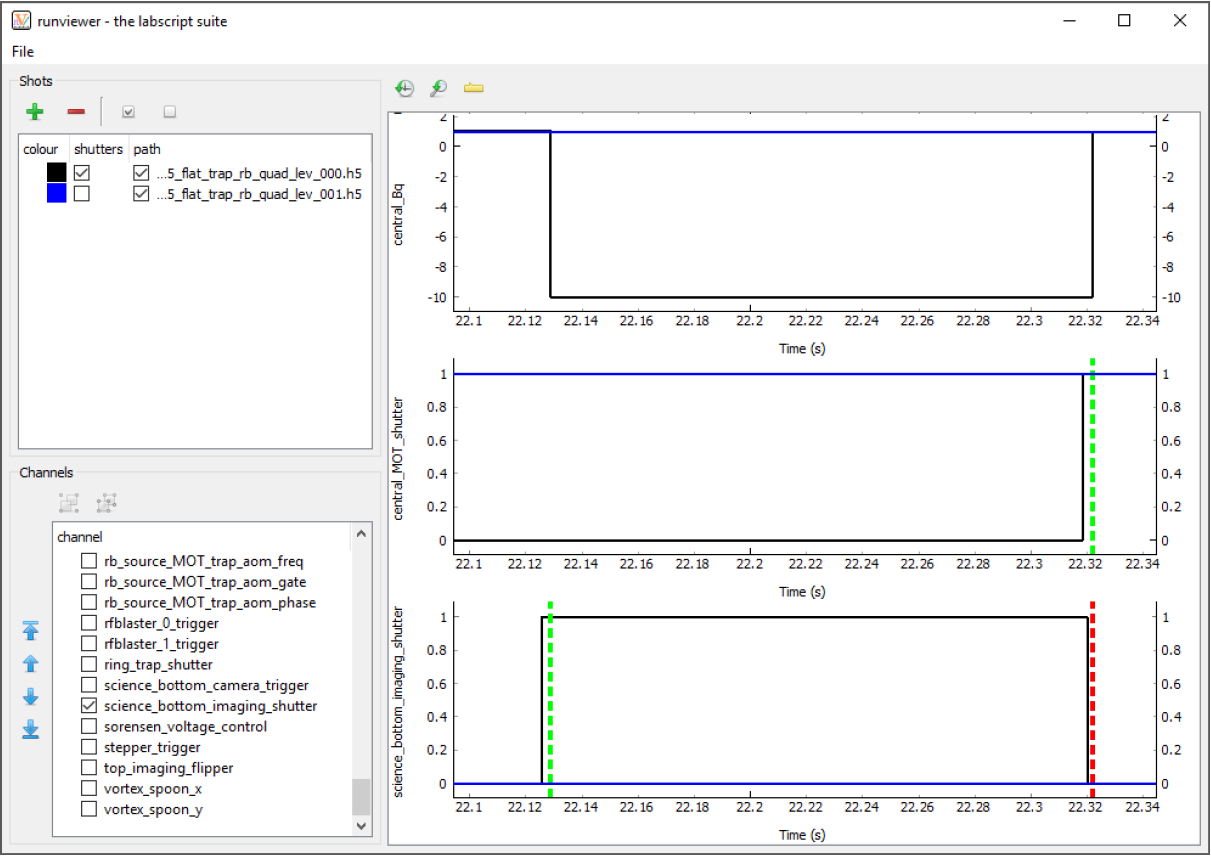
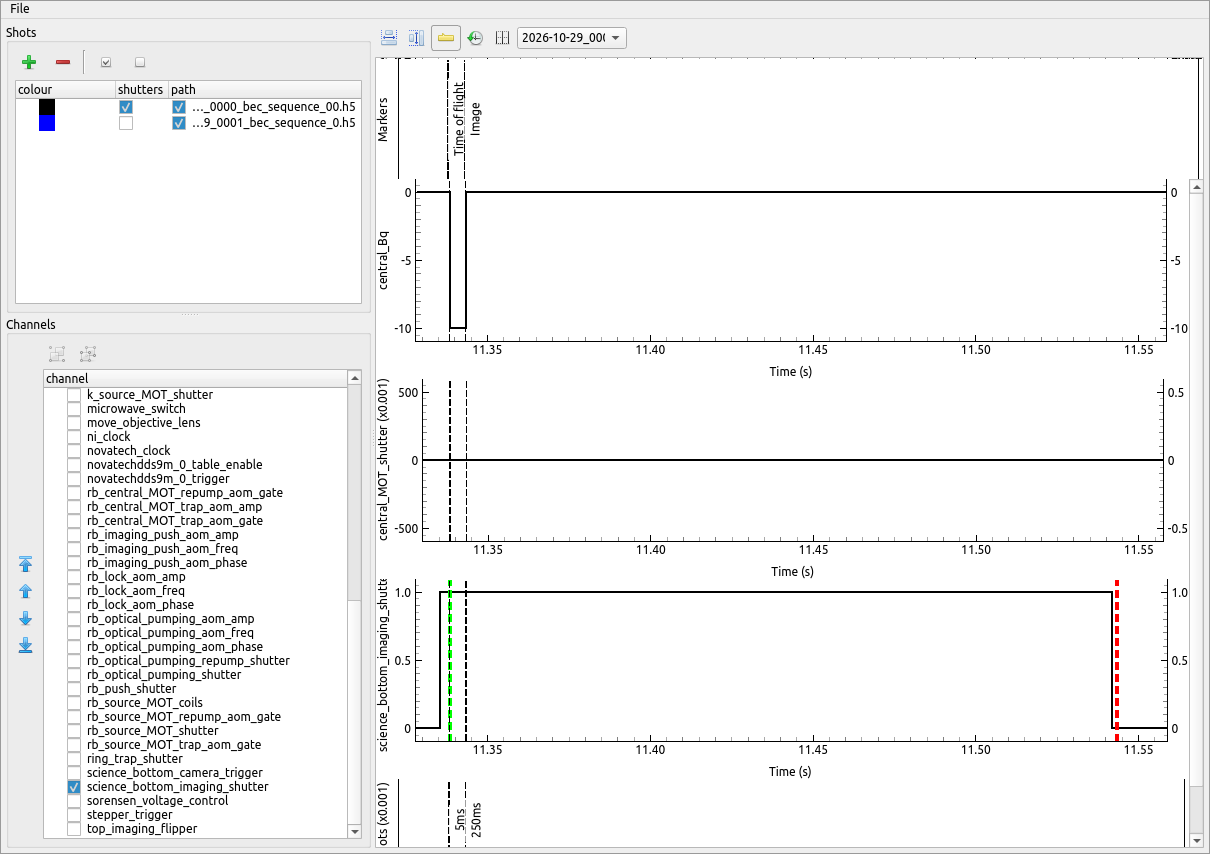
Retake the screenshots in the docs and document the controls and time markers
The interface, overview and detail screenshots show runviewer as it is now, with shots of an example experiment, and the text and captions describe those shots. The usage page lists the six controls above the plots, with a screenshot of them, and describes the time markers, the plots of their labels and intervals, moving markers and spacing them evenly, with a screenshot of evenly spaced markers. The footnote that cited the experiment of the old screenshots is removed. The docs build with no new warnings.
Claude-Session: https://claude.ai/code/session_01CEhjRcvvaKejruGiNCGQ5K

diff --git a/docs/source/usage.rst b/docs/source/usage.rst
@@ -60,31 +60,67 @@ which is a useful aid when switching between regularly-used experiments.
 
 .. _fig-overview:
 
-.. figure:: img/runviewer_overview.png 
+.. figure:: img/runviewer_overview.png
+    :alt: The runviewer window with two shots loaded and three channels plotted
 
     The runviewer interface consists of 3 main sections. (1) Controls for loading
     shots, selecting the colour of traces, selecting whether shutter open/close markers are to
-    be shown, and whether the output traces from this shot should be shown. Note that we
-    have only enabled shutter markers for one of the two shots loaded (the black trace). (2) A
-    reorderable list of channels contained within the loaded shots. The order here determines
-    the order of plots in (3). Only enabled channels will be displayed in (3). (3) Plots of the
-    output traces for the selected channels in the selected shots. Here we show data from 2 shots
-    of a real experiment sequence from the Monash lab used to study vortex clustering dynamics [2]_.
-    The two shots loaded demonstrate how you can observe differences in output between shots
-    in a sequence (in this case due to varying the time between stirring and imaging the vortex
-    clusters). In this figure we display the entire length of the trace, which makes it difficult
-    to distinguish between the shutter open/close events (red and green dashed, vertical lines)
+    be shown, and whether the output traces from this shot should be shown. Shutter markers
+    are shown for only one of the two shots loaded (the black trace). (2) A reorderable list
+    of channels contained within the loaded shots. The order here determines the order of
+    plots in (3). Only enabled channels will be displayed in (3). (3) Plots of the output
+    traces for the selected channels in the selected shots, with the time markers of the
+    first shot above and below them. The two shots differ in the length of the MOT loading
+    stage and in whether the magnetic trap is decompressed before the dipole trap is loaded.
+    In this figure the entire length of the trace is displayed, which makes it difficult to
+    distinguish between the shutter open/close events (green and red dashed, vertical lines)
     and the digital output trace. The discrepancy between these events becomes more apparent
     when zooming in (see :numref:`fig-detail`).
 
 The third section comprises the plotting region. We use the Python plotting library
 :doc:`pyqtgraph <pyqtgraph:index>` to generate the plots. This choice was primarily made due to the performance
 of pyqtgraph, which is significantly faster than other common Python plotting libraries
-such as matplotlib. [3]_ The user can pan and zoom the plots produced by pyqtgraph using
+such as matplotlib. [2]_ The user can pan and zoom the plots produced by pyqtgraph using
 the mouse (by holding left or right mouse button respectively while moving the mouse).
 The time axes of each plot are linked together so that multiple output traces can be easily
-compared to each other. Two buttons are then provided at the top of the interface for
-resetting the axes to the default scaling.
+compared to each other. Above the plots are six controls (see :numref:`fig-controls`):
+
+#. *Show all time* sets the time axis of the plots to the whole duration of the enabled
+   shots.
+#. *Autoscale y-axis* sets the vertical axis of each plot to the range of its traces.
+#. When the tooltip button is checked, a tooltip shows the channel, the time and the value
+   of the trace under the mouse pointer.
+#. *Reset time axis* makes the time axis linear again after the markers have been moved
+   or spaced evenly.
+#. *Space markers evenly* makes the intervals between consecutive time markers equally wide
+   on the time axis, so that short stages of the experiment take up as much of the plot
+   as long ones (see :numref:`fig-markers`).
+#. The drop-down list selects the shot whose time markers are drawn.
+
+.. _fig-controls:
+
+.. figure:: img/runviewer_controls.png
+    :alt: The six controls above the plots
+
+    The controls above the plots, numbered as in the list above.
+
+The time markers of a shot are the times given to :func:`add_time_marker
+<labscript.labscript.add_time_marker>` in the experiment script, and the start and the end of the
+shot. They are drawn as vertical dashed lines on every plot, in the colours given to
+`add_time_marker`. The plot above the channels shows the label of each marker, and the plot
+below the channels shows the duration of the interval that follows each marker. Dragging
+a marker in the plot of the labels moves it along the time axis and stretches or
+compresses the intervals on either side of it, which makes the time axis non-linear. The
+markers are spaced evenly in :numref:`fig-markers`.
+
+.. _fig-markers:
+
+.. figure:: img/runviewer_markers.png
+    :alt: The runviewer window with the time markers spaced evenly
+
+    The shot of :numref:`fig-interface` with its time markers spaced evenly. The stages of
+    the MOT compression, the optical molasses and the optical pumping, which last 20 ms,
+    8 ms and 0.3 ms, are as wide on the time axis as the 2.5 s of the MOT loading.
 
 As discussed previously, the output traces are generated directly from the hardware
 instructions. This creates two problems: information about the timing of certain events
@@ -99,14 +135,14 @@ of interest (see :numref:`fig-detail`).
 
 .. _fig-detail:
 
-.. figure:: img/runviewer_detail.png 
+.. figure:: img/runviewer_detail.png
+    :alt: The traces of the previous figure, zoomed in on the absorption image
 
-    Here we show the same traces as in :numref:`fig-overview`, but zoomed just after the
-    22 s mark. We can now clearly see the difference between the change in digital state (black
-    trace) used to open and close the shutter, and the time at which the shutter was actually
-    commanded to open and close (green and red dashed, vertical lines respectively). In this
-    case, the shutter (open, close) delay was specified in the labscript file as (3.11, 2.19) ms for
-    the central_MOT_shutter and (3.16, 1.74) ms for the science_bottom_imaging_shutter.
+    The traces of :numref:`fig-overview`, zoomed in on the absorption image at the end of the
+    first shot. The digital output of `science_bottom_imaging_shutter` (black trace) changes
+    state before the times at which the shutter is commanded to be open and closed (green and
+    red dashed, vertical lines). The shutter (open, close) delay is specified in the
+    experiment script as (3.16, 1.74) ms.
 
 The second problem is solved by dynamically resampling the output traces depending
 on the zoom level of the x-axis of the plots. I wrote a feature-preserving algorithm for
@@ -136,11 +172,7 @@ to complete in the background.
 .. [1] Documentation taken from Phillip T. Starkey *A software framework for control and automation of precisely timed experiments*
     Thesis, Monash University (2019) https://doi.org/10.26180/5d1db8ffe29ef
 
-.. [2] S. P. Johnstone, A. J. Groszek, P. T. Starkey, C. J. Billington, T. P. Simula, and
-    K. Helmerson. *Evolution of large-scale flow from turbulence in a two-dimensional
-    superfluid* Science **364**, 1267 (2019) https://doi.org/10.1126/science.aat5793
-
-.. [3] We typically use matplotlib in the labscript suite as it is a widely known package with an almost
+.. [2] We typically use matplotlib in the labscript suite as it is a widely known package with an almost
     identical syntax to MATLAB. This means that many users are already familiar with the syntax needed
     to create plots. As the user is not required to write or modify the code that generates the plots
     in runviewer, this benefit was not applicable and so it was worth using pyqtgraph for the increased

diff --git a/docs/source/introduction.rst b/docs/source/introduction.rst
@@ -9,17 +9,20 @@ of what the hardware will actually do. In effect, runviewer provides a low level
 representation of the experiment, which complements the high level representation provided
 by the experiment logic written using the labscript API. As such, runviewer traces provide
 a way to view the quantisation of outputs, [2]_ which can be seen in the `central_Bq` and
-`central_bias_z_coil` channels in :numref:`fig-interface`. You can also view the pseudoclock outputs.
-The `pulseblaster_0_ni_clock` and `pulseblaster_0_novatech_clock` channels demonstrate
-the independent clocking of devices from a single PulseBlaster pseudoclock. Similarly,
-`pulseblaster_1_clock` shows an entirely independent secondary pseudoclock.
+`rb_central_MOT_trap_aom_amp` channels in :numref:`fig-interface`. You can also view the
+pseudoclock outputs. The `ni_clock` and `novatech_clock` channels show the independent
+clocking of devices from a single PulseBlaster pseudoclock: the NI cards are clocked at the
+sample rates of the two analog ramps, and the NovaTech DDS9m at the 1 kHz sample rate of a
+frequency ramp that starts at the 'PGC' marker.
 
 .. _fig-interface:
 
 .. figure:: img/runviewer_interface.png
-    :alt: Runviewer runviewer
+    :alt: The runviewer window with one shot and five channels, zoomed in on 30 ms of the shot
 
-    An example of the runviewer interface.
+    The runviewer interface, zoomed in on the compression of a MOT and the start of an
+    optical molasses (PGC) stage. The analog outputs `central_Bq` and
+    `rb_central_MOT_trap_aom_amp` are ramped in steps of 0.5 ms and 0.25 ms.
 
 .. rubric:: Footnotes
 
